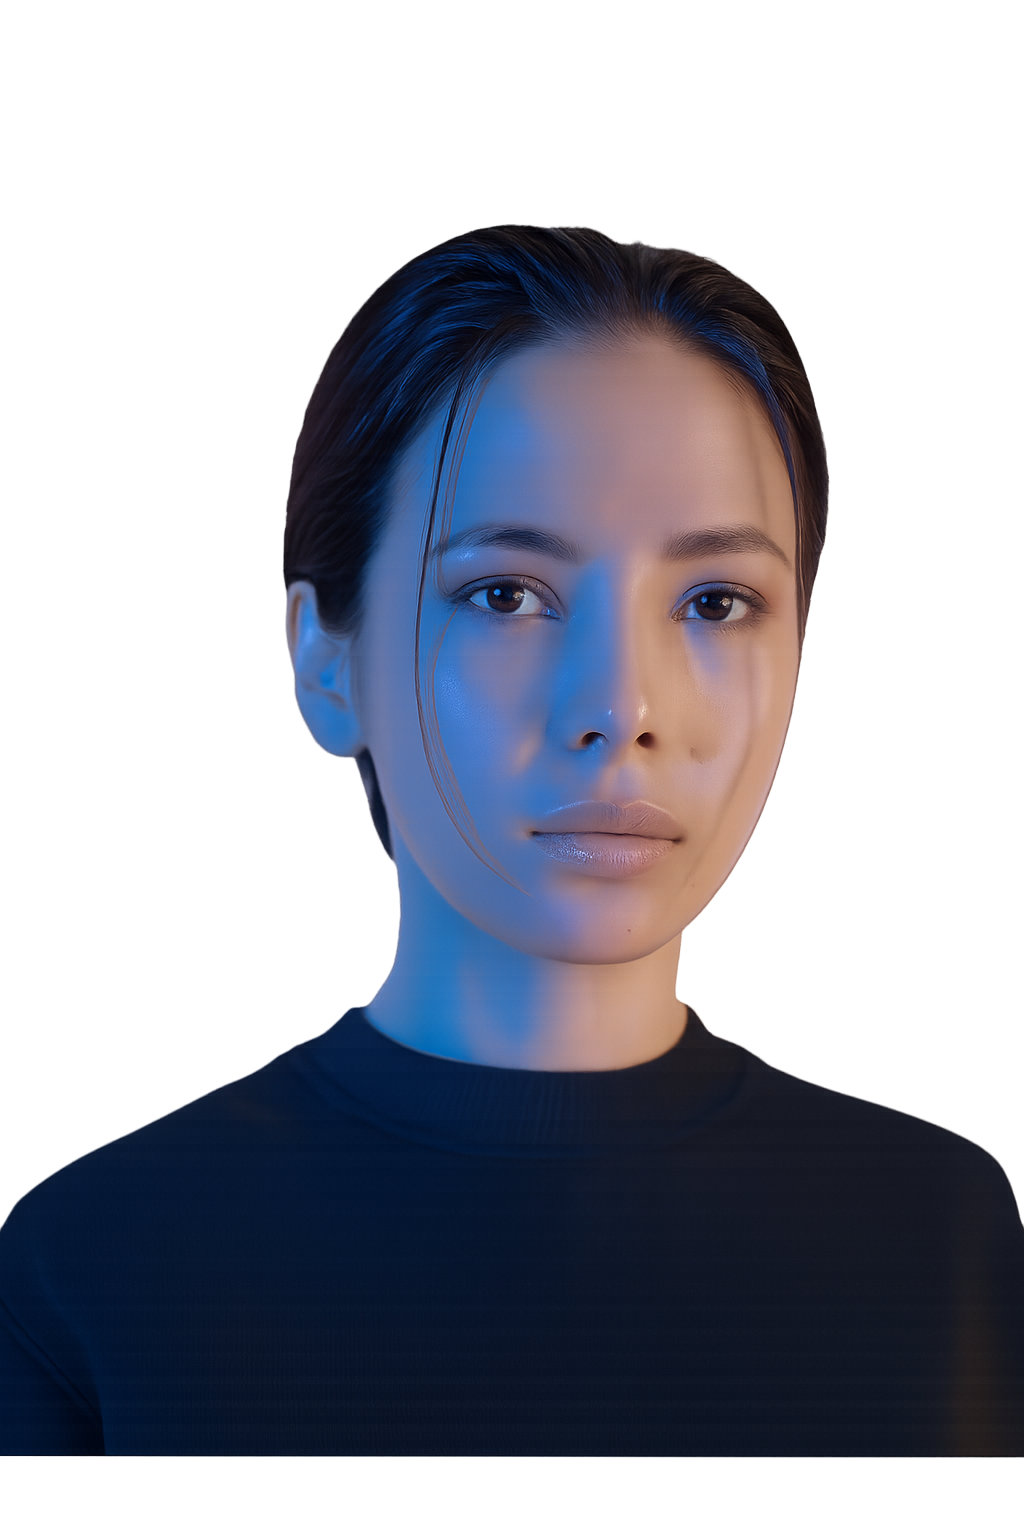
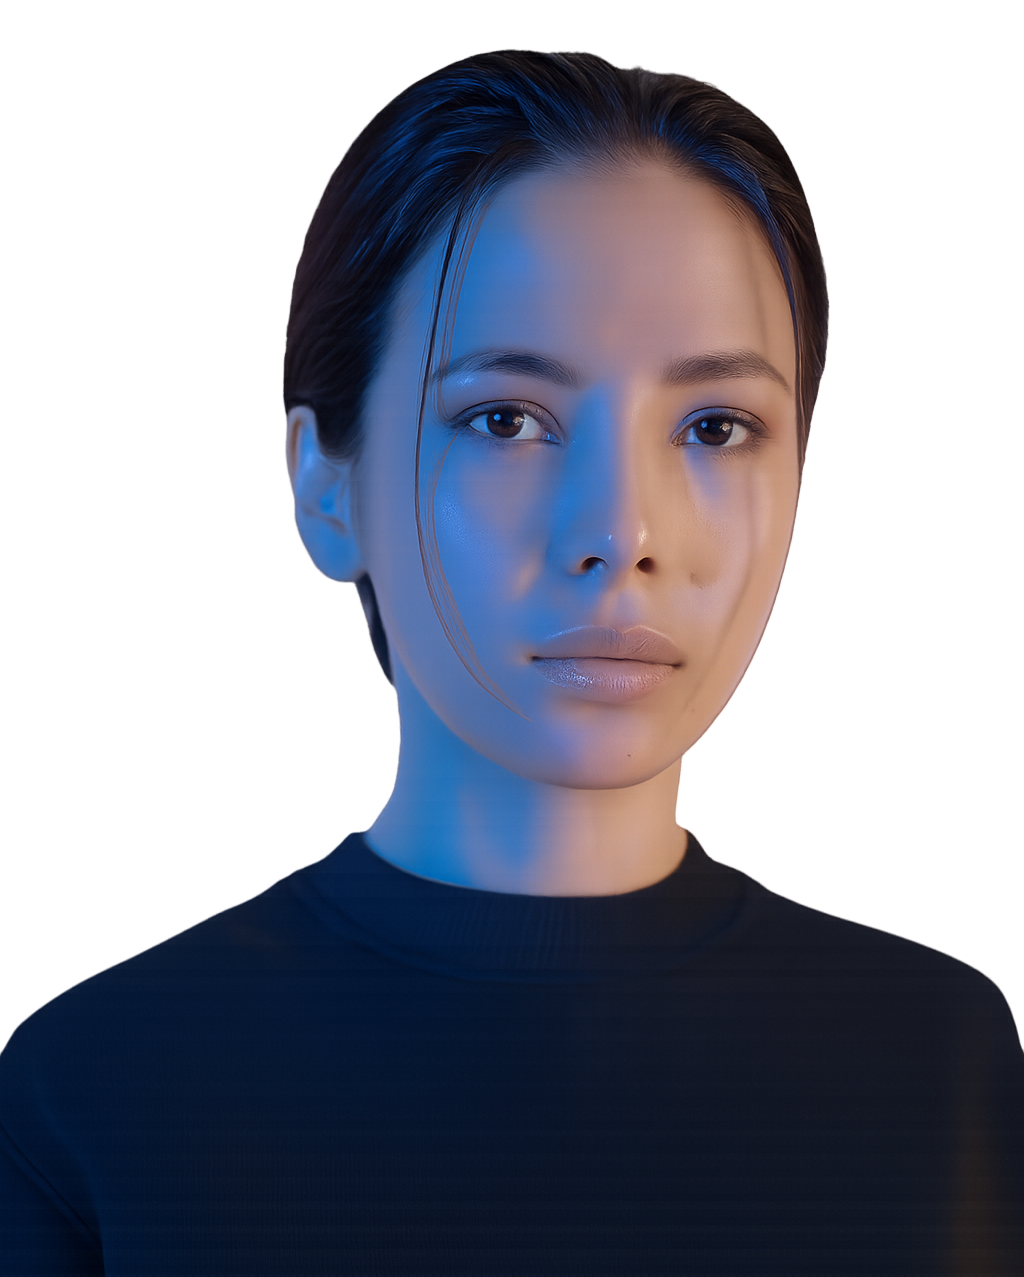
About section

diff --git a/src/app/features/about/about-page/about-page.html b/src/app/features/about/about-page/about-page.html
@@ -1,100 +1,131 @@
-<!-- <div class="container mx-auto my-6 grid gap-4 lg:grid-cols-3">
-    <div class="grid gap-4 lg:col-span-2">
-
-        <div class="grid sm:grid-cols-3 gap-4">
-            <div class="bg-pink-mid/40 rounded-3xl sm:col-span-2 p-8 flex items-end">
-                <p class="font-serif font-light text-2xl md:text-3xl mb-6">
-                    Lorem ipsum dolor sit amet, consectetur adipiscing elit. Cras tempor felis magna, vitae semper ipsum
-                    tristique in. Nullam malesuada consequat luctus.
-                </p>
+<div>
+    <section class="min-h-screen w-full grid grid-cols-1 md:grid-cols-2">
+        <div class="flex flex-col justify-center px-6 md:px-12 lg:px-24 py-6 bg-neutral-50 text-left">
+            <h2
+                class="font-serif text-gray-900 text-4xl md:text-5xl lg:text-6xl font-light leading-tight tracking-tight">
+                Based in Guadalajara, Mexico — capturing memories worldwide.
+            </h2>
+            <p class="mt-6 text-sm md:text-base text-neutral-600 leading-relaxed max-w-md">
+                With over six years of photography experience, I've had the privilege of capturing stories across México
+                and around the world — from the cobblestone streets of Italy and Greece to the breathtaking landscapes
+                of Switzerland and Turkey.
+            </p>
+            <div>
+                <div class="flex items-center gap-8 uppercase text-xs tracking-wider my-6">
+                    <a href="" class="hover:underline">Instagram</a>
+                    <a href="" class="hover:underline">Pinterest</a>
+                </div>
+                <app-buttons type="button" size="sm" variant="outline" color="neutral">
+                    View Portfolio <fa-icon [icon]="faArrow"></fa-icon>
+                </app-buttons>
             </div>
+        </div>
+        <div class="h-full flex justify-center items-center bg-neutral-100">
+            <img class="h-full w-2/3 md:w-3/4 object-contain drop-shadow-lg" src="assets/self-noback.png" alt="">
+        </div>
+    </section>
 
-            <img class="w-full h-48 sm:h-full object-cover object-center rounded-3xl" src="assets/about.jpg"
-                alt="Celeste Sierra">
+    <section class="min-h-screen w-full bg-neutral-100 grid grid-cols-1 md:grid-cols-2">
+        <div class="grid grid-cols-3 gap-2 p-4">
+            <img class="object-cover object-center aspect-square" src="assets/arch-1.jpg" alt="">
+            <img class="object-cover object-center aspect-square col-span-2 row-span-2" src="assets/arch-2.jpg" alt="">
+            <img class="object-cover object-center aspect-square" src="assets/arch-3.jpg" alt="">
+            <img class="object-cover object-center aspect-square" src="assets/arch-1.jpg" alt="">
+            <img class="object-cover object-center aspect-square" src="assets/arch-3.jpg" alt="">
+        </div>
+        <div class="flex flex-col justify-center px-6 md:px-12 lg:px-24 py-6">
+            <h2 class="text-4xl md:text-5xl font-light uppercase tracking-tight">With a Bachelor's degree in
+                <i>Architecture</i> and a specialization in <b class="font-thin">Photography</b>
+            </h2>
+            <p class="mt-6 text-base text-neutral-700 leading-relaxed">
+                My work lives at the intersection of design and emotion—creating imagery that is both refined and deeply
+                resonant.
+            </p>
+        </div>
+    </section>
+
+    <section id="portfolio" class="min-h-screen flex flex-col justify-center bg-neutral-900 text-white px-6 py-16">
+        <div class="max-w-5xl mx-auto text-center mb-16">
+            <h2 class="text-4xl md:text-5xl font-serif mb-6">Portfolio</h2>
+            <p class="text-sm md:text-base max-w-2xl mx-auto">
+                A curated collection of timeless weddings, fashion editorials, and personal stories.
+                Each frame tells a story of love, light, and emotion.
+            </p>
         </div>
 
-        <div class="grid sm:grid-cols-2 gap-4">
-            <div class="bg-pink-mid/40 rounded-3xl flex flex-col justify-end p-8">
-                <p>
-                    Lorem ipsum dolor sit amet, consectetur adipiscing elit. Cras tempor felis magna, vitae semper ipsum
-                    tristique in. Nullam malesuada consequat luctus.
-                </p><br>
-                <p>
-                    Lorem ipsum dolor sit amet, consectetur adipiscing elit. Cras tempor felis magna, vitae semper ipsum
-                    tristique in. Nullam malesuada consequat luctus.
-                </p>
+        <div class="grid grid-cols-3 gap-2 md:gap-4 max-w-6xl mx-auto">
+            <div routerLink="/portfolio/weddings"
+                class="h-58 p-2 md:p-6 flex flex-col justify-end bg-neutral-100 hover:bg-neutral-300 transition shadow-md cursor-pointer group">
+                <span class="text-sm md:text-lg font-serif tracking-wide text-gray-800 group-hover:text-gray-900">
+                    Weddings 
+                </span>
+                <span class="flex justify-between items-center text-gray-600">
+                    View Collection
+                    <fa-icon class="text-gray-600" [icon]="faArrow"></fa-icon>
+                </span>
             </div>
-            <div class="bg-pink-mid/40 rounded-3xl flex flex-col justify-between p-8">
+
+            <div routerLink="/portfolio/engagements"
+                class="h-58 p-2 md:p-6 flex flex-col justify-end bg-neutral-100 hover:bg-neutral-300 transition shadow-md cursor-pointer group">
+                <span class="text-sm md:text-lg font-serif tracking-wide text-gray-800 group-hover:text-gray-900">
+                    Engagements 
+                </span>
+                <span class="flex justify-between items-center text-gray-600">
+                    View Collection
+                    <fa-icon class="text-gray-600" [icon]="faArrow"></fa-icon>
+                </span>
+            </div>
+
+           <div routerLink="/portfolio/photoshoots"
+                class="h-58 p-2 md:p-6 flex flex-col justify-end bg-neutral-100 hover:bg-neutral-300 transition shadow-md cursor-pointer group">
+                <span class="text-sm md:text-lg font-serif tracking-wide text-gray-800 group-hover:text-gray-900">
+                    Photoshoots 
+                </span>
+                <span class="flex justify-between items-center text-gray-600">
+                    View Collection
+                    <fa-icon class="text-gray-600" [icon]="faArrow"></fa-icon>
+                </span>
+            </div>
+        </div>
+
+        <app-buttons class="mx-auto mt-12 inline-block" routerLink="/portfolio" type="button" size="md" variant="solid"
+            color="neutral">
+            View Full Portfolio
+        </app-buttons>
+    </section>
+
+    <section id="services" class="min-h-screen flex flex-col justify-center px-6 bg-gray-50">
+        <div class="max-w-4xl mx-auto text-center">
+            <h2 class="text-4xl md:text-5xl font-serif mb-8">Services</h2>
+            <p class="text-base text-gray-700 leading-relaxed max-w-2xl mx-auto mb-12">
+                From intimate weddings to editorial shoots, every service is crafted to reflect your story with elegance
+                and artistry.
+            </p>
+            <div class="grid grid-cols-1 md:grid-cols-3 gap-12">
                 <div>
-                    Any questions?
+                    <h3 class="text-2xl font-serif mb-2">Weddings</h3>
+                    <p class="text-gray-600">Documenting your day with timeless, editorial imagery.</p>
                 </div>
-                <div class="flex justify-between items-center">
-                    <p class=" text-2xl md:text-3xl">Contact me</p>
-                    <fa-icon routerLink="/contact" [icon]="faArrow" class="cursor-pointer text-sm"></fa-icon>
+                <div>
+                    <h3 class="text-2xl font-serif mb-2">Editorials</h3>
+                    <p class="text-gray-600">Luxury styled shoots with an artistic eye.</p>
+                </div>
+                <div>
+                    <h3 class="text-2xl font-serif mb-2">Portraits</h3>
+                    <p class="text-gray-600">Intimate, elegant sessions tailored to you.</p>
                 </div>
             </div>
         </div>
-    </div>
-
-    <div class="h-64 lg:h-[80vh] grid grid-rows-[1fr_auto] gap-4">
-
-        <div class="bg-pink-mid/40 rounded-3xl p-8">
-            <mat-accordion>
-                <mat-expansion-panel [expanded]="true">
-                    <mat-expansion-panel-header>
-                        <mat-panel-title> Weddings </mat-panel-title>
-                    </mat-expansion-panel-header>
-                    <p>This is the primary content of the panel.</p>
-                </mat-expansion-panel>
-
-                <mat-expansion-panel (opened)="panelOpenState.set(true)" (closed)="panelOpenState.set(false)">
-                    <mat-expansion-panel-header>
-                        <mat-panel-title> Engagements </mat-panel-title>
-                    </mat-expansion-panel-header>
-                    <p>I'm visible because I am open</p>
-                </mat-expansion-panel>
-
-                <mat-expansion-panel (opened)="panelOpenState.set(true)" (closed)="panelOpenState.set(false)">
-                    <mat-expansion-panel-header>
-                        <mat-panel-title> Photoshoots </mat-panel-title>
-                    </mat-expansion-panel-header>
-                    <p>I'm visible because I am open</p>
-                </mat-expansion-panel>
-            </mat-accordion>
-        </div>
-
-        <div class="bg-pink-mid/40 rounded-3xl flex gap-6 justify-center items-center p-8 uppercase">
-            <p>Instagram</p>
-            <p>Pinterest</p>
-        </div>
-    </div>
-</div> -->
-
-<div class="h-screen w-full snap-y snap-mandatory overflow-y-scroll scroll-smooth font-serif">
-    <section class="relative h-screen w-full snap-start grid grid-cols-1 md:grid-cols-2">
-        <div class="flex flex-col justify-center px-12 bg-neutral-50">
-            <h1 class="text-5xl md:text-6xl font-light uppercase leading-tight tracking-wide break-normal">
-                Guadalajara, Mexico
-            </h1>
-            <p class="mt-6 text-lg text-neutral-600">
-                Six years of refined photography. Timeless, elegant, and designed for the moments that matter most.
-            </p>
-        </div>
-        <div class="relative bg-neutral-200">
-            <img class="absolute bottom-0 left-1/2 -translate-x-1/2 w-2/3 md:w-3/4 object-contain" src="assets/self-noback.png" alt="">
-        </div>
     </section>
 
-    <section class="h-screen w-full bg-neutral-100 snap-start flex items-center justify-center">
-        <div class="max-w-2xl text-center">
-            <h2 class="text-5xl md:text-7xl font-light uppercase tracking-tight">Our Philosophy</h2>
-            <p class="mt-6 text-lg text-neutral-700 leading-relaxed">
-                We capture love stories with a balance of artistry and authenticity — a luxurious editorial touch with heartfelt emotion.
+    <section id="contact" class="min-h-screen flex flex-col justify-center px-6 bg-white">
+        <div class="max-w-3xl mx-auto text-center">
+            <h2 class="text-4xl md:text-5xl font-serif mb-6">Let’s Create Together</h2>
+            <p class="text-lg text-gray-600 mb-10">
+                Ready to begin your story? Reach out for availability and bookings.
             </p>
+            <app-buttons routerLink="/contact" type="button" size="lg" variant="outline" color="neutral">Get in
+                Touch</app-buttons>
         </div>
-    </section>
-
-    <section class="h-screen w-full bg-neutral-900 text-white snap-start flex items-center justify-center">
-        <h2 class="text-6xl md:text-8xl font-light tracking-wide uppercase">Portfolio</h2>
     </section>
 </div>

diff --git a/src/app/features/about/about-page/about-page.ts b/src/app/features/about/about-page/about-page.ts
@@ -1,17 +1,37 @@
 import { ChangeDetectionStrategy, Component, signal } from '@angular/core';
 import { RouterModule } from '@angular/router';
+import { Buttons } from '../../../shared/buttons/buttons';
 
 import { MatExpansionModule } from '@angular/material/expansion';
 
 import { FontAwesomeModule } from '@fortawesome/angular-fontawesome';
 import { faArrowRight } from '@fortawesome/free-solid-svg-icons';
+import { ServiceCard } from '../../home/home-page/home-page-model';
 @Component({
   selector: 'app-about-page',
-  imports: [RouterModule, MatExpansionModule, FontAwesomeModule],
+  imports: [Buttons, RouterModule, MatExpansionModule, FontAwesomeModule],
   templateUrl: './about-page.html',
   styleUrl: './about-page.scss'
 })
 export class AboutPage {
   readonly panelOpenState = signal(false);
   faArrow = faArrowRight;
+
+  serviceType: ServiceCard[] = [
+      {
+        title: 'Weddings',
+        image: 'assets/couple.jpg',
+        link: '/portfolio/weddings'
+      },
+      {
+        title: 'Engagements',
+        image: 'assets/portrait.jpg',
+        link: '/portfolio/engagements'
+      },
+      {
+        title: 'Photoshoots',
+        image: 'assets/details.jpg',
+        link: '/portfolio/photoshoots'
+      }
+    ]
 }

diff --git a/src/app/shared/scroll-top/scroll-top.html b/src/app/shared/scroll-top/scroll-top.html
@@ -1,6 +1,6 @@
 @if (showButton) {
 <button (click)="scrollToTop()"
-    class="cursor-pointer flex items-center justify-center fixed bottom-6 right-6 p-3 h-10 w-10 rounded-full border-2 text-xs hover:bg-blue hover:text-white hover:border-0 transition">
-    <fa-icon [icon]="faArrow"></fa-icon>
+    class="cursor-pointer flex items-center justify-center fixed bottom-6 right-6 p-3 h-10 w-10 rounded-full border-2 border-gray-900 text-xs hover:bg-gray-900 hover:text-white hover:border-0 transition">
+    <fa-icon class="text-gray-900" [icon]="faArrow"></fa-icon>
 </button>
 }
